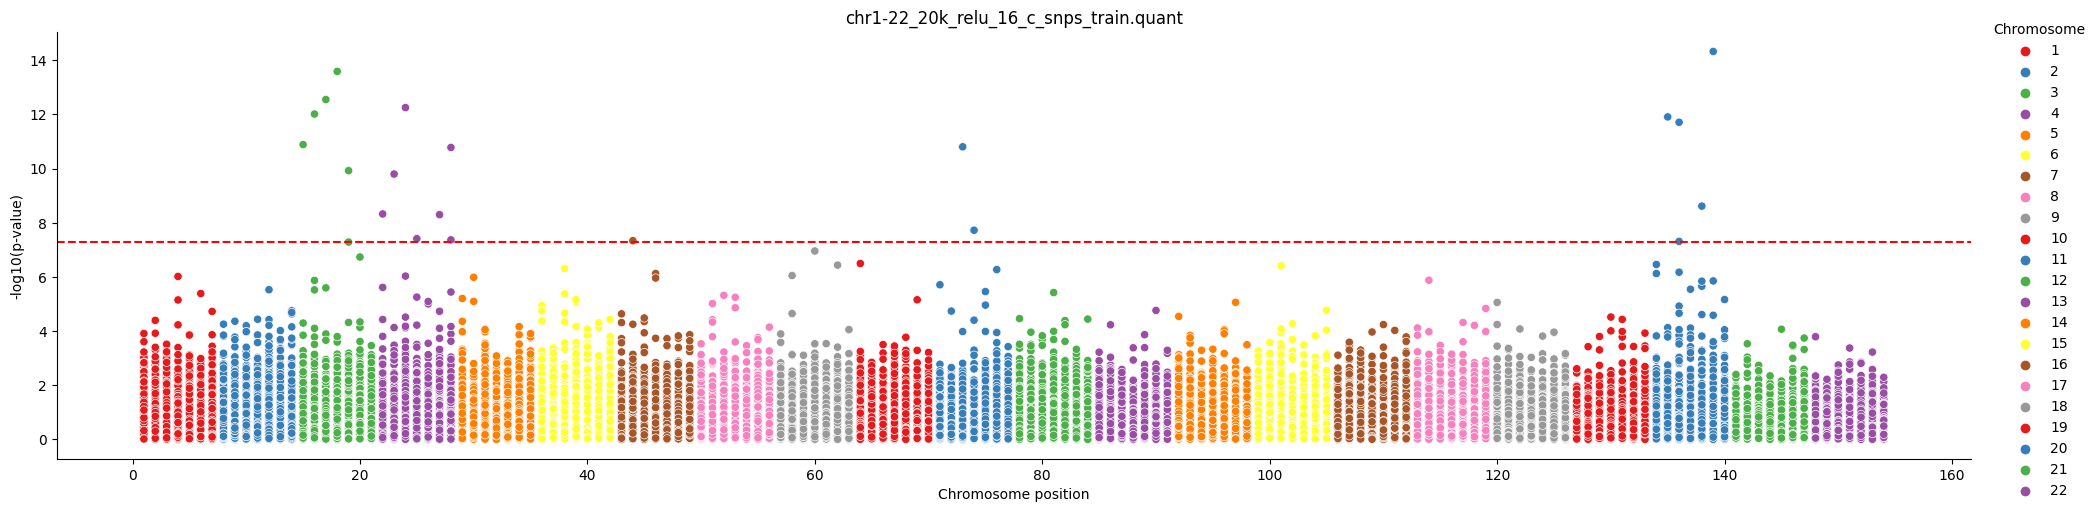
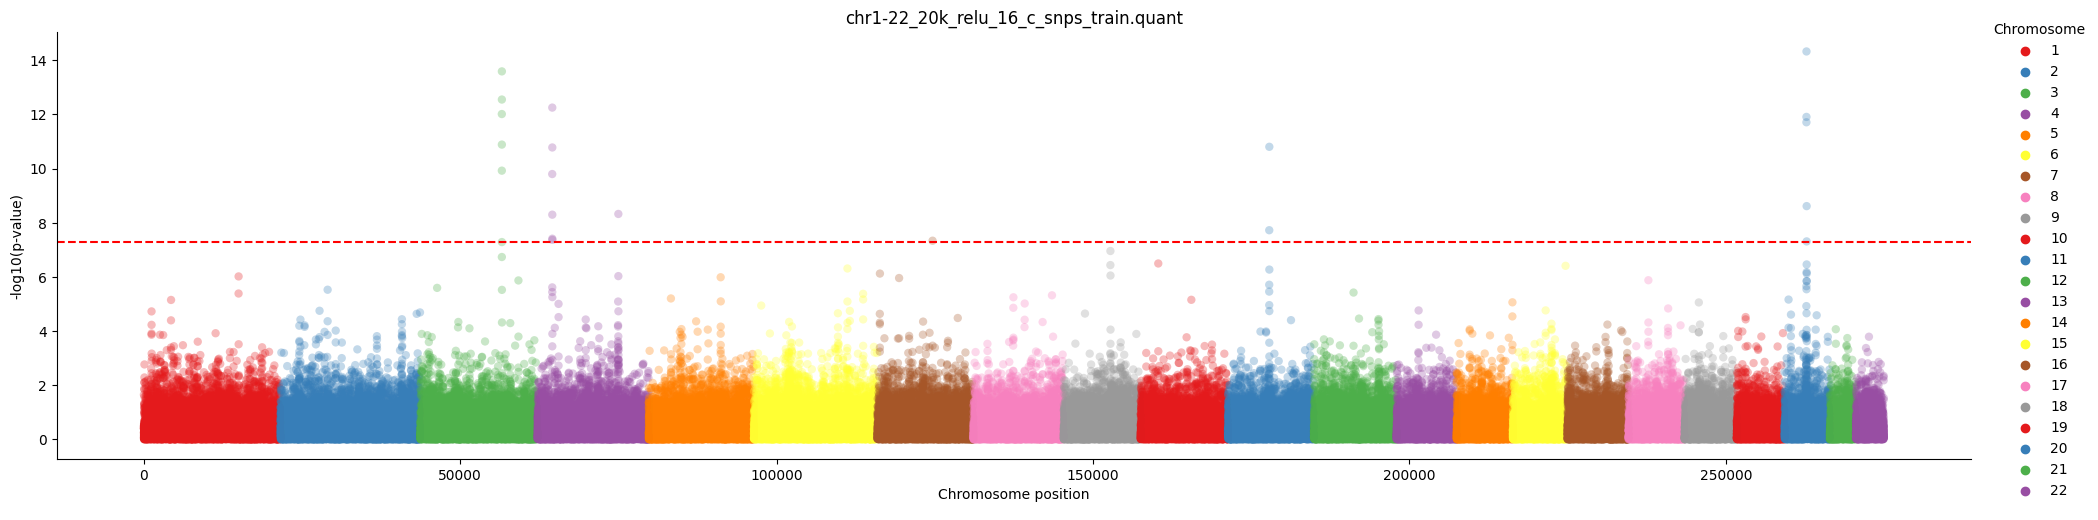
docs: Updated vizualisation in report

diff --git a/src/visualizations/single_snp_visualizations.py b/src/visualizations/single_snp_visualizations.py
@@ -35,11 +35,13 @@ if __name__ == "__main__":
 
         graph = sns.relplot(
             data=df,
-            x="cumulative_pos",
+            x="SNP number",
             y="-logp",
             aspect=4,
             hue="Chromosome",
             palette="Set1",
+            linewidth=0,  # no white border around points
+            alpha=0.3,
         )
         threshold = 5e-8
         graph.ax.axhline(y=-np.log10(threshold), color="r", linestyle="--")

diff --git a/docs/report.md b/docs/report.md
@@ -27,13 +27,13 @@ A single SNP analysis performed on compressed SNP (cSNPs).
 
 ### Comparison
 
-| Activation     | Stride/width | Compression factor | N significant (p < 5x10^-8) | Expected N given number of SNPs | N significant / expected |
-| -------------- | ------------ | ------------------ | --------------------------- | ------------------------------- | ------------------------ |
-| Identity       | 16           | 2x                 | 29                          | 0.013748                        | **2109.2903**            |
-| Identity       | 512          | 2x                 | 7                           | 0.015503                        | 451.4963                 |
-| ReLU           | 16           | 2x                 | 20                          | 0.013748                        | 1454.6829                |
-| ReLU           | 512          | 2x                 | 1                           | 0.015503                        | 64.4994                  |
-| (Uncompressed) |              | Uncompressed       | 50                          | 0.03143                         | 1590.5989                |
+| Activation | Stride/width | Compression factor | N significant (p < 5x10^-8) | Expected N given number of SNPs | N significant / expected |
+| ---------- | ------------ | ------------------ | --------------------------- | ------------------------------- | ------------------------ |
+| Identity   | 16           | 2x                 | 29                          | 0.013748                        | **2109.2903**            |
+| Identity   | 512          | 2x                 | 7                           | 0.015503                        | 451.4963                 |
+| ReLU       | 16           | 2x                 | 20                          | 0.013748                        | 1454.6829                |
+| ReLU       | 512          | 2x                 | 1                           | 0.015503                        | 64.4994                  |
+|            |              | Uncompressed       | 50                          | 0.03143                         | 1590.5989                |
 
 
 <details>
@@ -361,7 +361,8 @@ and `--power -1` (GCTA / naive). I am a bit unsure how this is done.
 
 # TODO
 
-- [ ] Do a single snp analysis with the same number of individuals
+- [x] Do a single snp analysis with the same number of individuals
+  - Added to the report under the section "single snp analysis"
 - [ ] Check relu compression (why is there trivial SNPs?)
 - [ ] Redo analysis with more ind.
   - [ ]  time estimate (for compression?)
@@ -370,6 +371,8 @@ and `--power -1` (GCTA / naive). I am a bit unsure how this is done.
 - [x] Plot Single SNPs
 - [x] Figure out the role of the Q_J (examine)
 - [ ] Calculate correlation
+- [x] Check visualization, is there a even amount of c snps pr. chromosome?
+  -  It was caused by a normalization of the snps. I should have updated the plots now.
 
 
 ## central question:
